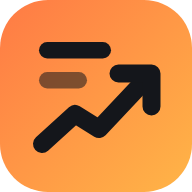
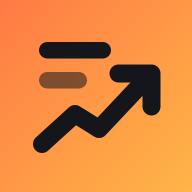
Icônes d'appli plein cadre (plus de bordure noire dans le Dock / écran d'accueil)
Claude-Session: https://claude.ai/code/session_01LZoaQfZc2K3zL4jna4Nfp8

diff --git a/index.html b/index.html
@@ -10,8 +10,8 @@
 <title>Le Brief Invest — Crypto · Actions · Immo</title>
 <link rel="icon" href="favicon.svg" type="image/svg+xml">
 <link rel="icon" href="favicon-32.png" sizes="32x32" type="image/png">
-<link rel="apple-touch-icon" href="apple-touch-icon.png">
-<link rel="apple-touch-icon" sizes="180x180" href="apple-touch-icon.png">
+<link rel="apple-touch-icon" href="apple-touch-icon.png?v=2">
+<link rel="apple-touch-icon" sizes="180x180" href="apple-touch-icon.png?v=2">
 <link rel="manifest" href="manifest.webmanifest">
 <meta name="theme-color" content="#0d0f12" id="themecolor">
 <script>(function(){try{var t=localStorage.getItem("lb-theme");if(!t)t=matchMedia("(prefers-color-scheme: light)").matches?"light":"dark";document.documentElement.dataset.theme=t;if(t==="light")document.getElementById("themecolor").content="#ffffff";}catch(e){}})();</script>

diff --git a/sw.js b/sw.js
@@ -1,7 +1,7 @@
 /* Le Brief Invest : service worker (appli installable + ouverture rapide).
    Pages et données : réseau d'abord (toujours à jour), copie de secours si pas de connexion.
    Images et logos : copie locale, rafraîchie en arrière-plan. Rien n'est touché hors du site (audio, comptes, graphiques). */
-const VERSION = "lb-v11";
+const VERSION = "lb-v12";
 const SHELL = ["./", "index.html", "manifest.webmanifest", "img/logo.svg", "img/icon-192.png", "img/icon-512.png", "favicon.svg", "apple-touch-icon.png"];
 
 self.addEventListener("install", e => {
